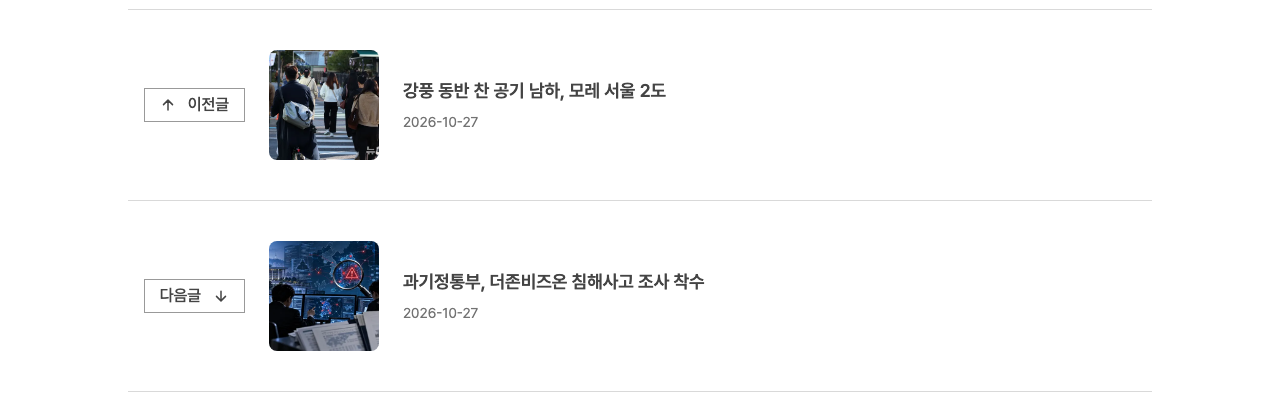
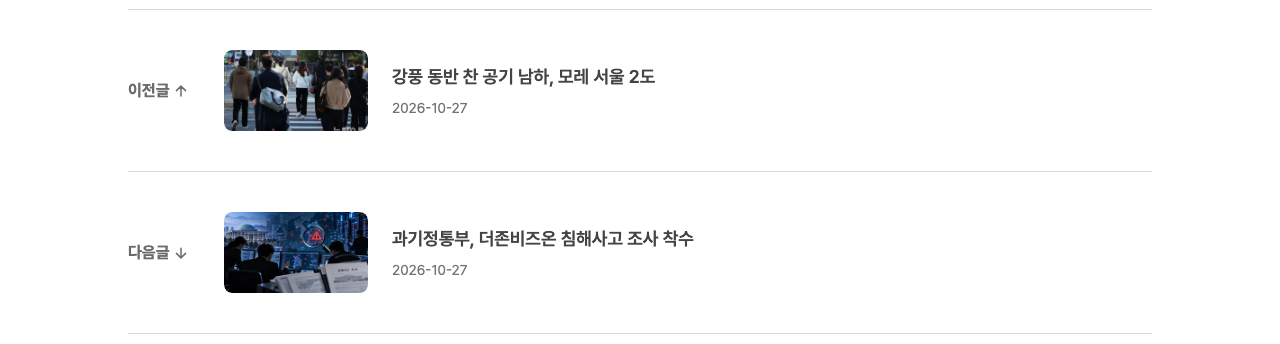
style(web): 이전·다음 — 버튼을 글자 꼬리표로, 사진을 가로형(16:9)으로 (#113)

Changed region(s): [[0.0938, 0.5814, 0.5625, 0.9012], [0.0938, 0.1163, 0.5312, 0.407]]

diff --git a/apps/web/src/app/articles/detail/[slug]/_components/PrevNextArticle.tsx b/apps/web/src/app/articles/detail/[slug]/_components/PrevNextArticle.tsx
@@ -2,7 +2,6 @@
 
 import { useState } from 'react';
 import styled from 'styled-components';
-import MoveButton from '@/components/common/MoveButton';
 import { IoArrowUp, IoArrowDown } from 'react-icons/io5';
 import HeightAutoImg from '@/components/common/HeightAutoImg';
 import Link from 'next/link';
@@ -43,14 +42,12 @@ function PrevNextArticle({ className, prev, next }: Props) {
 						onMouseEnter={handleMouseEnter(type)}
 						onMouseLeave={handleMouseLeave}
 					>
-						{isPrev ? (
-							<MoveButton className="btn" text={text} frontIcon={icon} />
-						) : (
-							<MoveButton className="btn" text={text} backIcon={icon} />
-						)}
-
+						<span className="tag">
+							{text}
+							{icon}
+						</span>
 						<div className="img">
-							<HeightAutoImg src={src} aspectratio={1} />
+							<HeightAutoImg src={src} aspectratio={16 / 9} />
 						</div>
 						<div className="text-section">
 							<p className="title">{title}</p>
@@ -64,14 +61,10 @@ function PrevNextArticle({ className, prev, next }: Props) {
 		return (
 			<li className={`prev-next ${type} disabled`}>
 				<div className="link">
-					{isPrev ? (
-						<MoveButton className="btn" text={text} frontIcon={icon} disabled />
-					) : (
-						<MoveButton className="btn" text={text} backIcon={icon} disabled />
-					)}
-					<div className="img">
-						<HeightAutoImg src={src} aspectratio={1} />
-					</div>
+					<span className="tag">
+						{text}
+						{icon}
+					</span>
 					<div className="text-section">
 						<p className="title">{title}</p>
 						<p className="date">{date}</p>
@@ -107,17 +100,30 @@ const PrevNextArticleStyled = styled.section`
 			.link {
 				display: contents;
 
-				.btn {
-					flex: 0.8;
+				/* 이전글 ↑ · 다음글 ↓: 테두리 없는 글자 꼬리표 */
+				.tag {
+					display: inline-flex;
+					align-items: center;
+					gap: 0.25rem;
+					flex-shrink: 0;
+					width: 4.5rem;
+					font-size: ${({ theme }) => theme.fontSize.small};
+					font-weight: ${({ theme }) => theme.fontWeight.semiBold};
+					color: ${({ theme }) => theme.color.subText};
 				}
 
+				/* 사진: 가로형(16:9) 작은 칸 */
 				.img {
-					flex: 1.2;
+					flex-shrink: 0;
+					width: 9rem;
 					margin: 0;
+					overflow: hidden;
+					border-radius: ${({ theme }) => theme.radius.surface};
 				}
 
 				.text-section {
-					flex: 8;
+					flex: 1;
+					min-width: 0;
 
 					.title {
 						color: ${({ theme }) => theme.color.mediumGrey};
@@ -146,10 +152,6 @@ const PrevNextArticleStyled = styled.section`
 			/* 글이 없을 때: 버튼만 흐리게, 안내 문구는 읽을 수 있는 대비로 (#16) */
 			&.disabled {
 				pointer-events: none;
-
-				.btn {
-					opacity: 0.5;
-				}
 
 				.title {
 					color: ${({ theme }) => theme.color.lightGrey};
